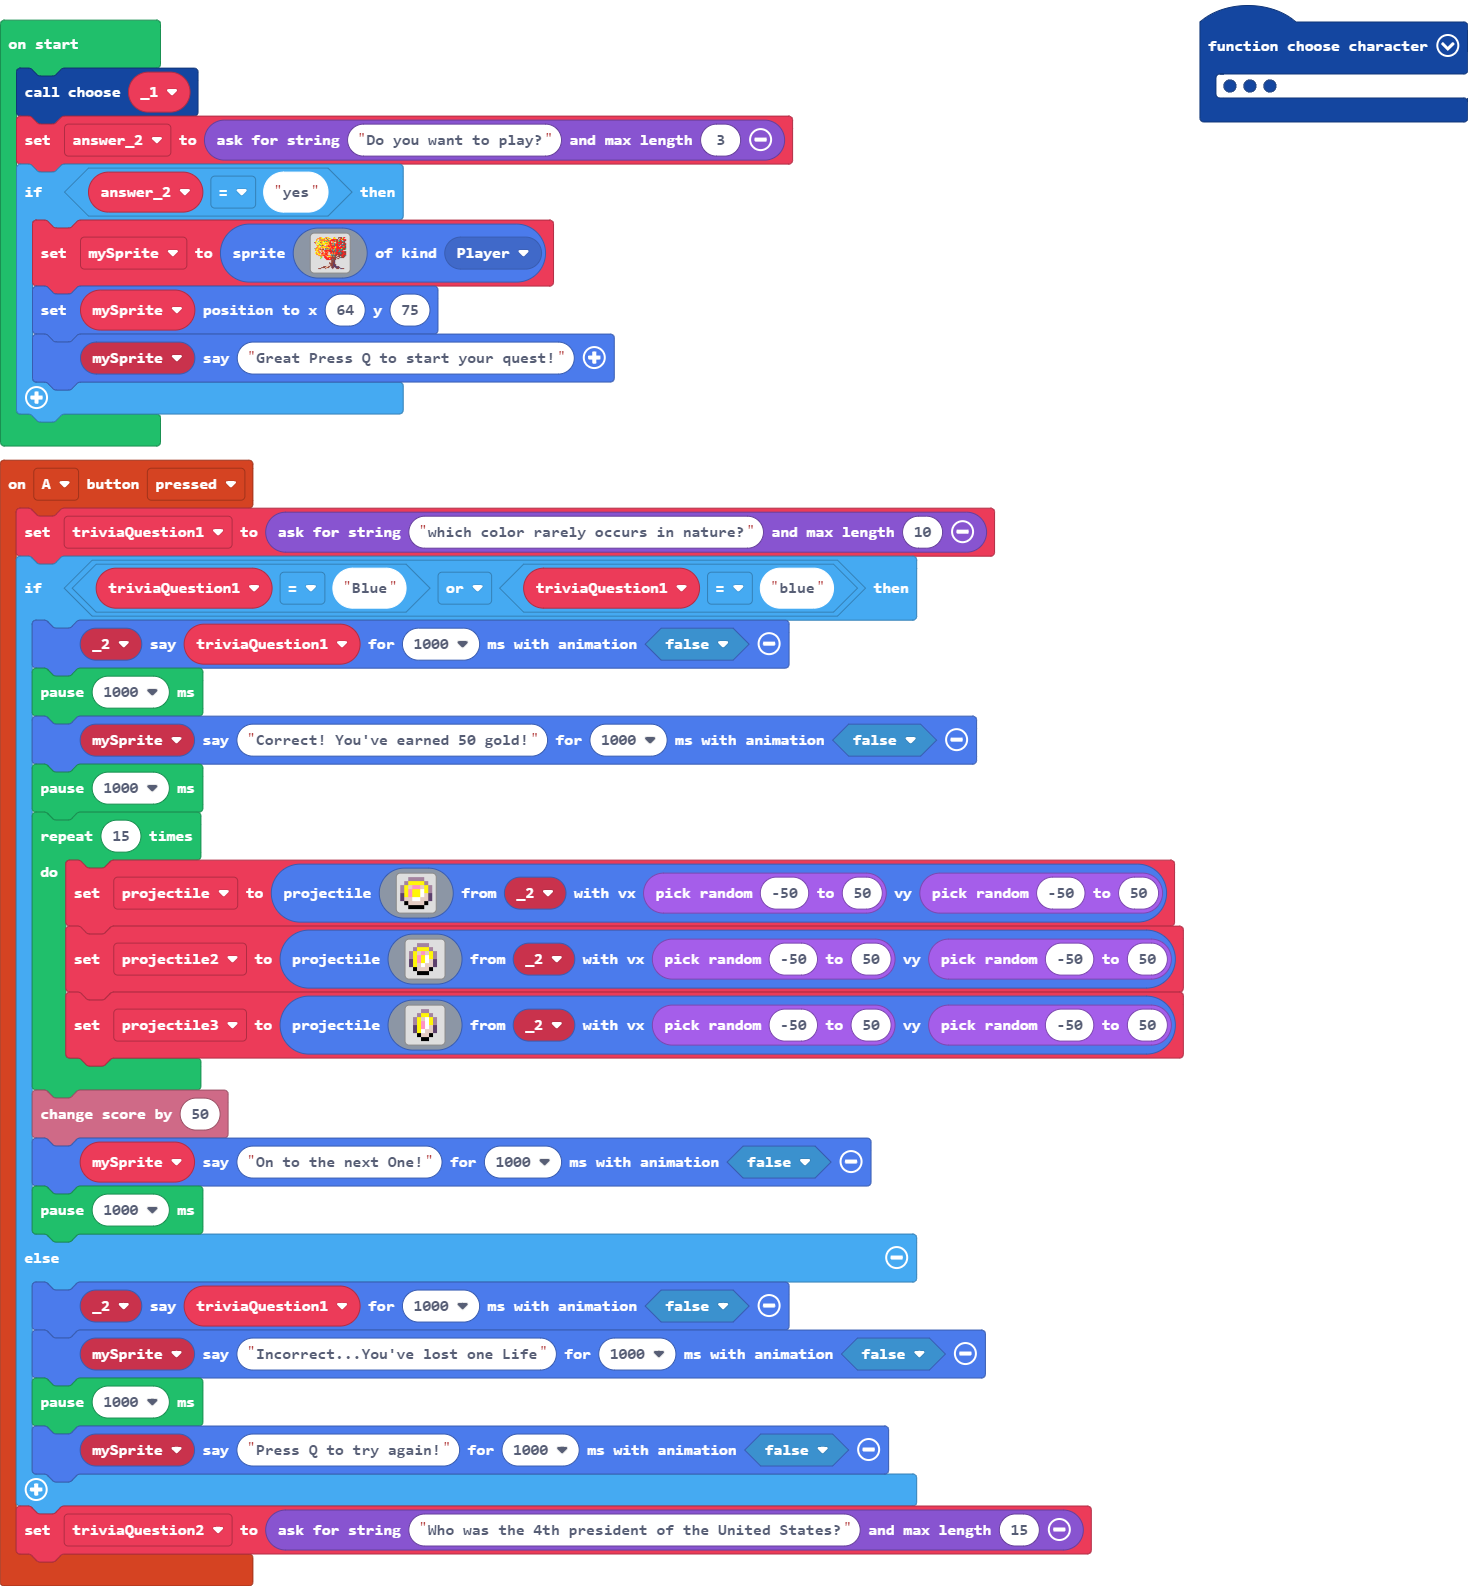
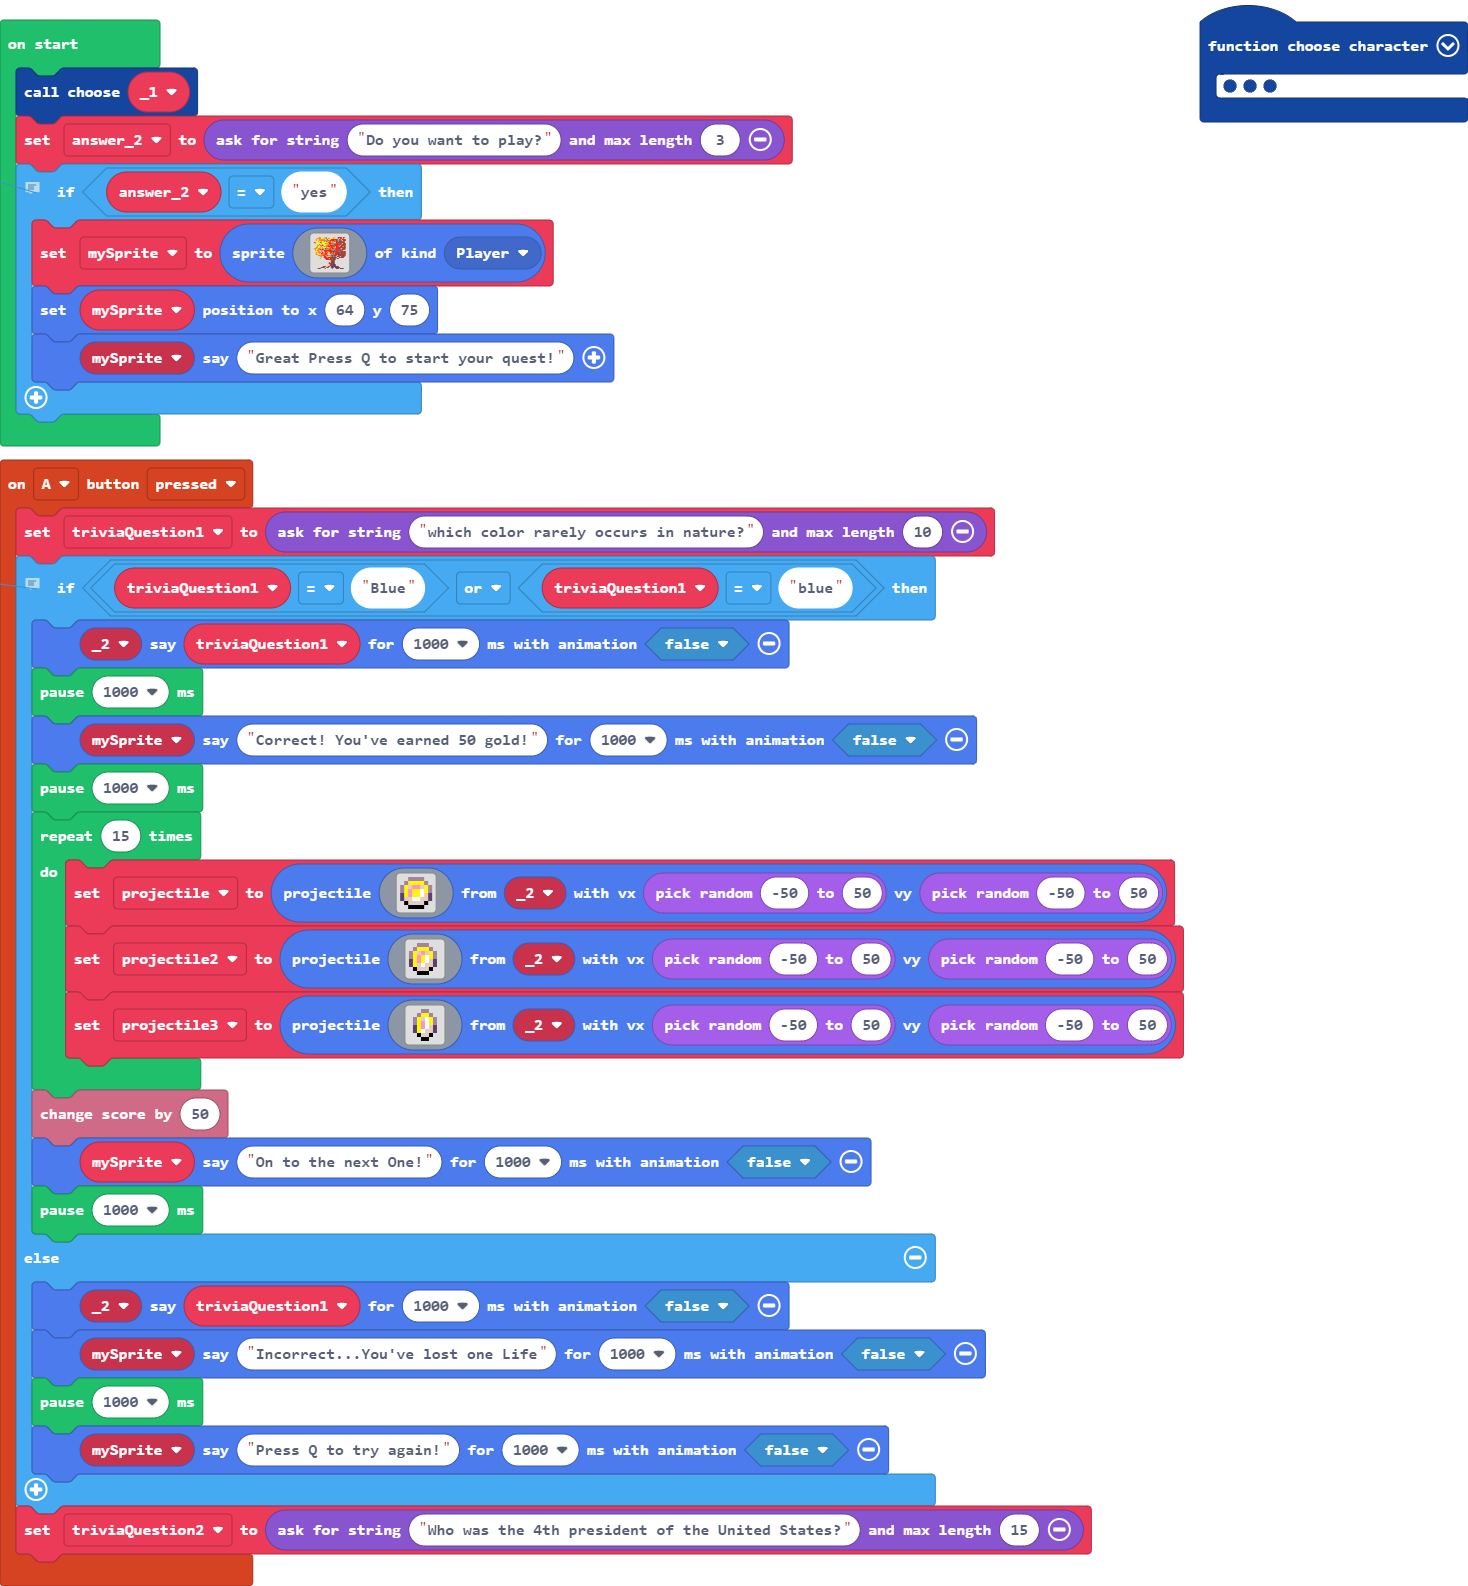
Update main.blocks, main.ts

diff --git a/main.ts b/main.ts
@@ -292,6 +292,7 @@ function choose (character: Sprite) {
 }
 controller.A.onEvent(ControllerButtonEvent.Pressed, function () {
     triviaQuestion1 = game.askForString("which color rarely occurs in nature?", 10)
+    // Conditional Statement
     if (triviaQuestion1 == "Blue" || triviaQuestion1 == "blue") {
         _2.sayText(triviaQuestion1, 1000, false)
         pause(1000)
@@ -353,6 +354,7 @@ let mySprite: Sprite = null
 let _1: Sprite = null
 choose(_1)
 let answer_2 = game.askForString("Do you want to play?", 3)
+// Conditional Statement
 if (answer_2 == "yes") {
     mySprite = sprites.create(img`
         .....445...4455....54...eeee.22.
